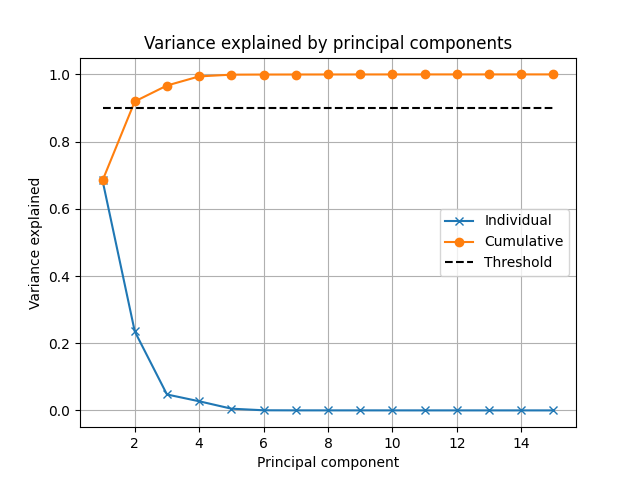
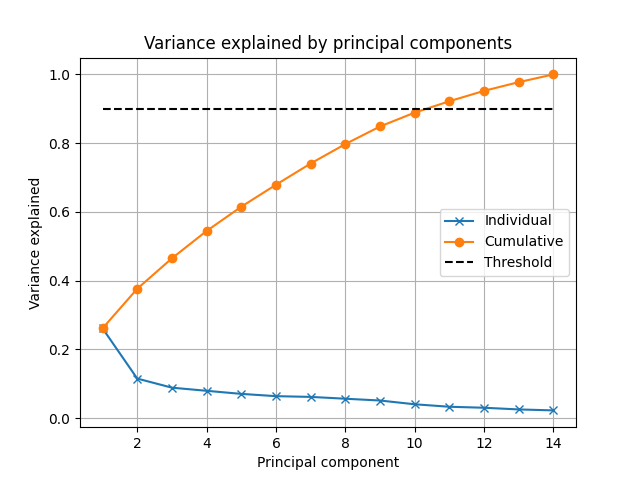
Added Images

diff --git a/PCA.py b/PCA.py
@@ -12,6 +12,7 @@ import pandas as pd
 import numpy as np
 import matplotlib.pyplot as plt
 from scipy.linalg import svd
+import Correlation_matrix as cm
 
 # read the data and create a dataframe using pandas
 data = pd.read_csv('cleaned_cleveland.csv')
@@ -21,9 +22,17 @@ data = pd.read_csv('cleaned_cleveland.csv')
 N = len(data)
 
 #Saving the "num" as the class label
-y = data["num"] 
-#Savinf the diffirent categories of the class label
-C = len(y.unique())  
+y = data["num"]
+
+#Converting the class label to binary
+y_binary = y.apply(lambda x: 1 if x > 0 else 0)
+
+print(y_binary)
+
+
+#Saving the different categories of the class label
+C = len(y_binary.unique())
+
 
 
 print("C",C)
@@ -31,12 +40,12 @@ print("y",y)
 print("y done")
 #standardizing the data (or normalizing it?)
 # Subtract mean collumn value from each element in each collumn
-stand_data=data.sub(data.mean(axis=0), axis=1)
-print("N",N)
-print("stand_data", stand_data)
+stand_data = cm.normalize_data(data)
+stand_data = cm.extract_relevant_vals(stand_data)
 
 mean_stand_data = stand_data.mean(axis=0)
-print("mean_stand_data", mean_stand_data)
+print("mean_stand_data")
+print(mean_stand_data)
 
 #PCA by computing SVD of stand_data
 
@@ -44,6 +53,9 @@ U, S, Vh = svd(stand_data, full_matrices=False)
 
 #Get V from Vh = V.hermitian
 V = Vh.T
+
+dot_product = np.dot(V[:, 0], V[:, 1])
+print(f"Dot product of PC1 and PC2: {dot_product:.5f}")  # Should be close to 0
 
 # Compute variance explained by principal components - INPORTANT EQUATION
 rho = (S * S) / (S * S).sum()
@@ -62,7 +74,7 @@ plt.xlabel("Principal component")
 plt.ylabel("Variance explained")
 plt.legend(["Individual", "Cumulative", "Threshold"])
 plt.grid()
-plt.savefig('Variance_explained_by_principal_components.png')
+plt.savefig('images/Variance_explained_by_principal_components.png')
  
 #PCA of first and second principal component 
 
@@ -73,14 +85,52 @@ Z = stand_data @ V
 i = 0
 j = 1
 
+# Plot PCA of the data
+f = plt.figure()
+plt.title("Heart Disease data: PCA")
+for c in np.unique(y_binary):
+    class_mask = (y_binary == c).to_numpy()
+    plt.plot(Z.loc[class_mask, 0], Z.loc[class_mask, 1], "o", alpha=0.5, label=f"Class {c}")
+plt.xlabel("PC1")
+plt.ylabel("PC2")
+plt.legend()
+
+
+
+colorList = ["green", "purple"]
+
+for i in range(2):
+    plt.arrow(0, 0, V[i, 0], V[i, 1], color=colorList[i], alpha=0.7, width=0.1)
+
+
+plt.savefig('images/PCA_heart_disease_data_binary_directions.png')
 
 # Plot PCA of the data
 f = plt.figure()
 plt.title("Heart Disease data: PCA")
-for c in np.unique(y): 
-    class_mask = (y == c).to_numpy()  
+for c in np.unique(y):
+    class_mask = (y == c).to_numpy()
     plt.plot(Z.loc[class_mask, 0], Z.loc[class_mask, 1], "o", alpha=0.5, label=f"Class {c}")
 plt.xlabel("PC1")
 plt.ylabel("PC2")
 plt.legend()
 plt.savefig('images/PCA_heart_disease_data.png')
+
+# plot 3D PCA of the data
+fig = plt.figure()
+ax = fig.add_subplot(111, projection='3d')
+plt.title("Heart Disease data: PCA")
+for c in np.unique(y_binary):
+    class_mask = (y_binary == c).to_numpy()
+    ax.scatter(Z.loc[class_mask, 0], Z.loc[class_mask, 1], Z.loc[class_mask, 2], alpha=0.4, label=f"Class {c}")
+
+ax.set_xlabel("PC1")
+ax.set_ylabel("PC2")
+ax.set_zlabel("PC3")
+# change the viewing angle
+ax.view_init(elev=0, azim=270)
+
+plt.legend()
+plt.savefig('images/PCA_heart_disease_data_3D_directions.png')
+
+

diff --git a/Correlation_matrix.py b/Correlation_matrix.py
@@ -117,6 +117,5 @@ def boxplot(df):
 data = pd.read_csv('cleaned_cleveland.csv',index_col=[0])
 # Firstly, we load in the data into a dataframe.
 
-data = normalize_data(data)
-
-boxplot(data)
+for i in data.columns:
+    print(data[i].unique())
